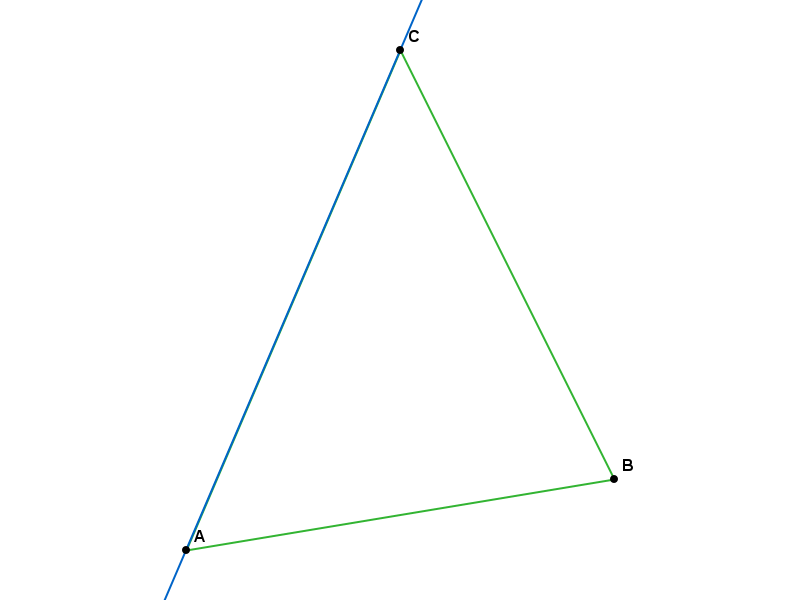
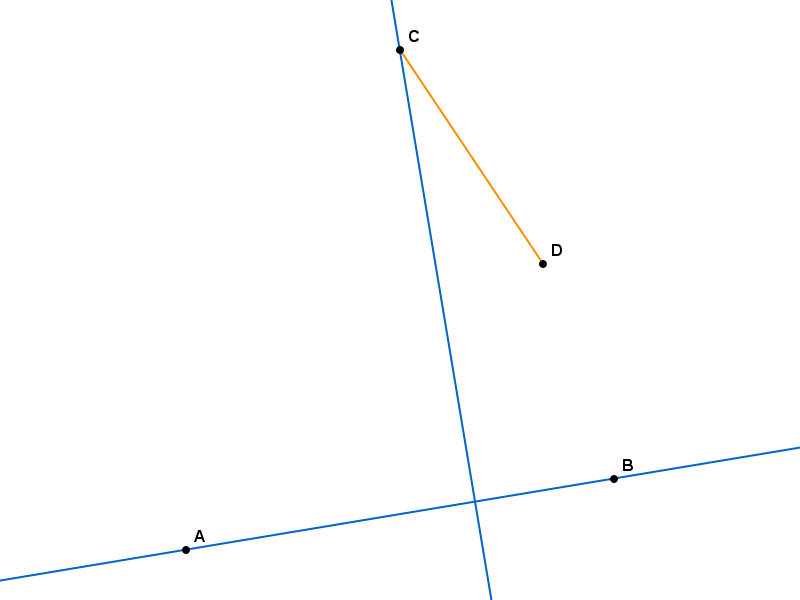
update test files and README; modify geometric configurations and enhance test descriptions for clarity

diff --git a/lab2/README.md b/lab2/README.md
@@ -60,92 +60,117 @@
 
 ## Результати тестування
 
-У рамках тестування було перевірено різні геометричні конфігурації, включаючи похилі прямі, від'ємні координати, дробові числа та великі масштаби.
+Перевірено геометричні конфігурації з похилими прямими, від'ємними, дробовими та великими координатами. Набір із п'яти файлів покриває всі п'ять команд мови: `ТОЧКА`, `ПРОВЕСТИ ПРЯМУ`, `ПОБУДУВАТИ ПЕРПЕНДИКУЛЯР`, `ПОБУДУВАТИ ТРИКУТНИК`, `ПОБУДУВАТИ ВІДРІЗОК`.
 
-### 1. Базовий тест (Прямокутний трикутник)
+### 1. Базовий тест
+
 **Вхідні дані (`test_1.geo`):**
-```text
-ТОЧКА A (0, 0);
-ТОЧКА B (6, 0);
-ТОЧКА C (0, 8);
-ПРОВЕСТИ ПРЯМУ ЧЕРЕЗ A, B;
-ПОБУДУВАТИ ПЕРПЕНДИКУЛЯР ДО ПРЯМОЇ (A, B) В ТОЧЦІ C;
-ПОБУДУВАТИ ТРИКУТНИК ПО ТРЬОМ ВЕРШИНАМ A, B, C
-#
-```
-**Результат:**
-Демонструє базову роботу команд побудови прямої, трикутника та перпендикуляра.
-![Базовий тест](output_test_1.png)
-
----
-
-### 2. Похила пряма (Перевірка векторної математики)
-**Вхідні дані (`test_2.geo`):**
 ```text
 ТОЧКА A (-4, -1);
 ТОЧКА B (2, -2);
 ТОЧКА C (-1, 5);
+ТОЧКА D (3, 3);
 ПРОВЕСТИ ПРЯМУ ЧЕРЕЗ A, B;
 ПОБУДУВАТИ ПЕРПЕНДИКУЛЯР ДО ПРЯМОЇ (A, B) В ТОЧЦІ C;
-ПОБУДУВАТИ ТРИКУТНИК ПО ТРЬОМ ВЕРШИНАМ A, B, C
+ПОБУДУВАТИ ТРИКУТНИК ПО ТРЬОМ ВЕРШИНАМ A, B, C;
+ПОБУДУВАТИ ВІДРІЗОК ВІД C ДО D
 #
 ```
+
 **Результат:**
-Демонструє, що перпендикуляр будується математично точно (під кутом 90 градусів), навіть якщо базова пряма має кут.
-![Похила пряма](output_test_2.png)
+Усі п'ять команд на одному аркуші. База `A–B` похила, перпендикуляр через `C` проходить окремо від сторін трикутника.
+
+![Базовий тест](output_test_1.png)
 
 ---
 
-### 3. Від'ємні та дробові координати
+### 2. Вертикальна база
+
+**Вхідні дані (`test_2.geo`):**
+```text
+ТОЧКА A (2, -3);
+ТОЧКА B (2, 4);
+ТОЧКА C (7, 1);
+ПРОВЕСТИ ПРЯМУ ЧЕРЕЗ A, B;
+ПОБУДУВАТИ ПЕРПЕНДИКУЛЯР ДО ПРЯМОЇ (A, B) В ТОЧЦІ C;
+ПОБУДУВАТИ ВІДРІЗОК ВІД A ДО C
+#
+```
+
+**Результат:**
+База `A–B` вертикальна (`x = 2`), перпендикуляр через `C` — горизонтальна пряма. Перевіряє побудову перпендикуляра до вертикальної прямої.
+
+![Вертикальна база](output_test_2.png)
+
+---
+
+### 3. Дробові та від'ємні координати
+
 **Вхідні дані (`test_3.geo`):**
 ```text
 ТОЧКА A (-3.5, -2.5);
 ТОЧКА B (2.5, -1.5);
 ТОЧКА C (-0.5, 4.5);
-ПРОВЕСТИ ПРЯМУ ЧЕРЕЗ A, C;
-ПОБУДУВАТИ ТРИКУТНИК ПО ТРЬОМ ВЕРШИНАМ A, B, C
+ТОЧКА D (1.5, 1.5);
+ПРОВЕСТИ ПРЯМУ ЧЕРЕЗ A, B;
+ПОБУДУВАТИ ПЕРПЕНДИКУЛЯР ДО ПРЯМОЇ (A, B) В ТОЧЦІ C;
+ПОБУДУВАТИ ВІДРІЗОК ВІД C ДО D
 #
 ```
+
 **Результат:**
-Демонструє коректну роботу `Viewport` із від'ємними числами та зсувом системи координат.
+Від'ємні та дробові координати в усіх точках. Перевіряє `Viewport` і побудову перпендикуляра до похилої прямої.
+
 ![Від'ємні координати](output_test_3.png)
 
 ---
 
-### 4. Симетрія (Рівнобедрений трикутник)
+### 4. Симетрія та порядок малювання
+
 **Вхідні дані (`test_4.geo`):**
 ```text
 ТОЧКА A (1, 1);
 ТОЧКА B (9, 1);
 ТОЧКА C (5, 6);
-ПОБУДУВАТИ ТРИКУТНИК ПО ТРЬОМ ВЕРШИНАМ A, B, C;
 ПРОВЕСТИ ПРЯМУ ЧЕРЕЗ A, B;
-ПОБУДУВАТИ ПЕРПЕНДИКУЛЯР ДО ПРЯМОЇ (A, B) В ТОЧЦІ C
+ПОБУДУВАТИ ПЕРПЕНДИКУЛЯР ДО ПРЯМОЇ (A, B) В ТОЧЦІ C;
+ПОБУДУВАТИ ТРИКУТНИК ПО ТРЬОМ ВЕРШИНАМ A, B, C;
+ПОБУДУВАТИ ВІДРІЗОК ВІД A ДО C;
+ПОБУДУВАТИ ВІДРІЗОК ВІД B ДО C
 #
 ```
+
 **Результат:**
-Демонструє точність побудови: перпендикуляр з вершини `C` є висотою і ділить основу навпіл.
+Рівнобедрений трикутник, перпендикуляр з `C` ділить основу `A–B` навпіл. Відрізки `A–C` і `B–C` збігаються зі сторонами трикутника — перевіряє порядок малювання примітивів.
+
 ![Симетрія](output_test_4.png)
 
 ---
 
-### 5. Масштабування (Великі числа)
+### 5. Масштабування
+
 **Вхідні дані (`test_5.geo`):**
 ```text
 ТОЧКА A (100, 200);
 ТОЧКА B (500, 200);
 ТОЧКА C (300, 600);
-ПРОВЕСТИ ПРЯМУ ЧЕРЕЗ A, B;
-ПОБУДУВАТИ ТРИКУТНИК ПО ТРЬОМ ВЕРШИНАМ A, B, C
+ТОЧКА D (250, 400);
+ПРОВЕСТИ ПРЯМУ ЧЕРЕЗ A, C;
+ПОБУДУВАТИ ПЕРПЕНДИКУЛЯР ДО ПРЯМОЇ (A, B) В ТОЧЦІ C;
+ПОБУДУВАТИ ТРИКУТНИК ПО ТРЬОМ ВЕРШИНАМ A, B, C;
+ПОБУДУВАТИ ВІДРІЗОК ВІД B ДО D
 #
 ```
+
 **Результат:**
-Демонструє роботу `Viewport`: попри великі координати, малюнок автоматично масштабується, щоб ідеально вміститися в екран. Візуально ідентичний попередньому тесту.
+Великі координати. `Viewport` автоматично масштабує зображення під розмір полотна. Відрізок `B–D` лежить усередині трикутника.
+
 ![Масштабування](output_test_5.png)
 
 ---
 
-### 6. Додатковий комплексний тест
+### 6. Комплексний тест
+
 **Вхідні дані (`input.geo`):**
 ```text
 ТОЧКА A (1, 2);
@@ -156,8 +181,10 @@
 ПОБУДУВАТИ ТРИКУТНИК ПО ТРЬОМ ВЕРШИНАМ A, B, C
 #
 ```
+
 **Результат:**
-Демонструє комбінацію всіх команд на інших координатах.
+Комбінація всіх команд на цілих координатах — приклад за замовчуванням.
+
 ![Комплексний тест](output.png)
 
 ## Граматика мови (БНФ)
